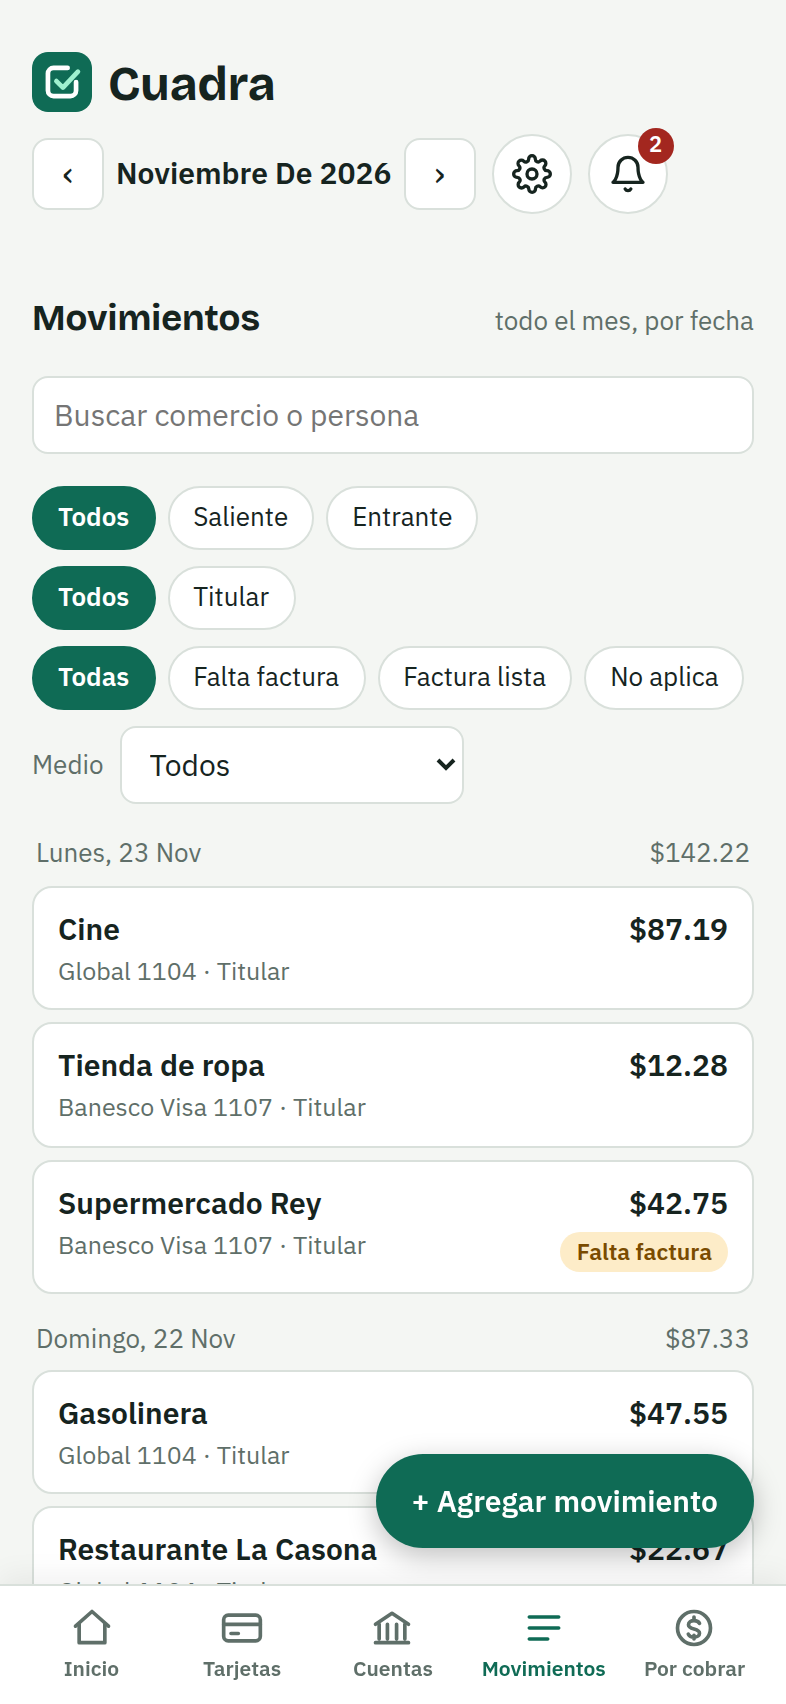
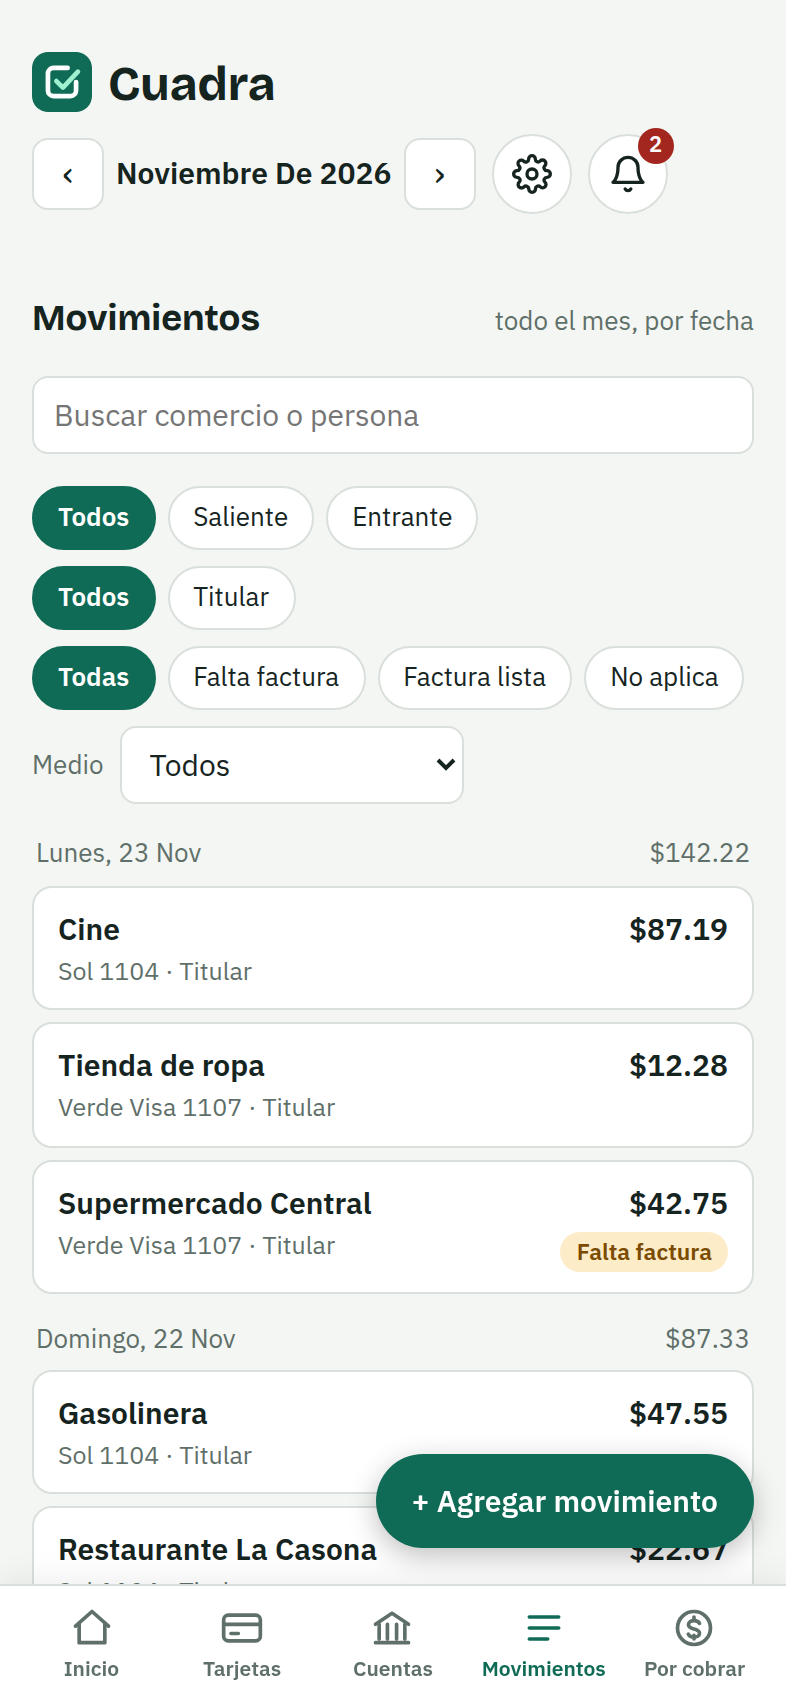
Actualización 2026-11-24

diff --git a/demo/datos_demo.py b/demo/datos_demo.py
@@ -34,23 +34,23 @@ db.set("usuarios", "demo", {"nombre": "Demo", "rol": "admin", "clave": hash_clav
 
 AHORA = "2026-11-23T19:42"
 saldos = {
-    "bg-yappy": {"banco": "Banco General", "desde": AHORA, "medios": ["Yappy", "BG 1111"], "nombre": "Cuenta Yappy", "orden": 1, "saldo": 412.50, "tipo": "cuenta"},
-    "bg-ahorro": {"banco": "Banco General", "contar": True, "desde": AHORA, "medios": ["BG 1113"], "nombre": "Ahorros", "orden": 3, "saldo": 2850.00, "tipo": "cuenta"},
-    "bac-ahorros": {"banco": "BAC", "contar": True, "desde": AHORA, "medios": ["BAC 1110"], "nombre": "Cuenta de ahorros", "orden": 10, "saldo": 1320.40, "tipo": "cuenta"},
-    "global-principal": {"banco": "Global Bank", "desde": AHORA, "medios": ["Global 1114"], "nombre": "Cuenta principal", "orden": 30, "saldo": 5400.00, "tipo": "cuenta"},
-    "bac-mc-1102": {"banco": "BAC", "corteDia": 9, "desde": AHORA, "deuda": 642.18, "disponible": 9357.82, "grupo": "BAC", "limite": 10000,
-                    "medios": ["BAC MC 1102"], "nombre": "Mastercard", "orden": 12, "pagoDia": 25, "tipo": "tarjeta", "pagoMin": 35.0, "saldoCorte": 410.0,
+    "norte-pagos": {"banco": "Banco Norte", "desde": AHORA, "medios": ["Pagos", "BN 1111"], "nombre": "Cuenta de pagos", "orden": 1, "saldo": 412.50, "tipo": "cuenta"},
+    "norte-ahorro": {"banco": "Banco Norte", "contar": True, "desde": AHORA, "medios": ["BN 1113"], "nombre": "Ahorros", "orden": 3, "saldo": 2850.00, "tipo": "cuenta"},
+    "azul-ahorros": {"banco": "Banco Azul", "contar": True, "desde": AHORA, "medios": ["BA 1110"], "nombre": "Cuenta de ahorros", "orden": 10, "saldo": 1320.40, "tipo": "cuenta"},
+    "sol-principal": {"banco": "Banco Sol", "desde": AHORA, "medios": ["BS 1114"], "nombre": "Cuenta principal", "orden": 30, "saldo": 5400.00, "tipo": "cuenta"},
+    "azul-mc-1102": {"banco": "Banco Azul", "corteDia": 9, "desde": AHORA, "deuda": 642.18, "disponible": 9357.82, "grupo": "Banco Azul", "limite": 10000,
+                    "medios": ["Azul MC 1102"], "nombre": "Mastercard", "orden": 12, "pagoDia": 25, "tipo": "tarjeta", "pagoMin": 35.0, "saldoCorte": 410.0,
                     "transito": [{"fecha": "2026-11-22", "desc": "Compra en Proceso", "monto": 35.0}], "financiado": 0, "planes": []},
-    "banesco-1107": {"banco": "Banesco", "corteDia": 16, "desde": AHORA, "deuda": 1180.77, "disponible": 8819.23, "limite": 10000,
-                     "medios": ["Banesco Visa 1107"], "nombre": "Visa", "orden": 20, "pagoDia": 12, "pagoMin": 50.0, "saldoCorte": 960.0, "tipo": "tarjeta", "transito": []},
-    "global-mc-1104": {"banco": "Global Bank", "corteDia": 25, "desde": AHORA, "deuda": 318.60, "disponible": 6681.40, "limite": 7000,
-                       "medios": ["Global 1104"], "nombre": "Mastercard", "orden": 35, "pagoDia": 20, "pagoMin": 25.0, "tipo": "tarjeta"},
+    "verde-1107": {"banco": "Banco Verde", "corteDia": 16, "desde": AHORA, "deuda": 1180.77, "disponible": 8819.23, "limite": 10000,
+                     "medios": ["Verde Visa 1107"], "nombre": "Visa", "orden": 20, "pagoDia": 12, "pagoMin": 50.0, "saldoCorte": 960.0, "tipo": "tarjeta", "transito": []},
+    "sol-mc-1104": {"banco": "Banco Sol", "corteDia": 25, "desde": AHORA, "deuda": 318.60, "disponible": 6681.40, "limite": 7000,
+                       "medios": ["Sol 1104"], "nombre": "Mastercard", "orden": 35, "pagoDia": 20, "pagoMin": 25.0, "tipo": "tarjeta"},
 }
 for k, v in saldos.items():
     db.set("saldos", k, v)
 
-comercios = ["Supermercado Rey", "Farmacia Arrocha", "Gasolinera", "Café Unido", "Cine", "Restaurante La Casona", "Netflix", "Uber", "Tienda de ropa", "Ferretería"]
-medios = ["BAC MC 1102", "Banesco Visa 1107", "Global 1104"]
+comercios = ["Supermercado Central", "Farmacia del Barrio", "Gasolinera", "Café del Parque", "Cine", "Restaurante La Casona", "Streaming", "Taxi", "Tienda de ropa", "Ferretería"]
+medios = ["Azul MC 1102", "Verde Visa 1107", "Sol 1104"]
 
 
 def mov(id, fecha, hora, monto, medio, tipo, comercio, **extra):
@@ -67,8 +67,7 @@ for dia in range(1, 24):
         mov(f"d{n}", f"2026-11-{dia:02d}", f"{random.randint(8, 21):02d}:{random.randint(0, 59):02d}", round(random.uniform(4, 95), 2),
             random.choice(medios), "Compra", random.choice(comercios))
 # una compra con factura pendiente: la que escanea el video (su total coincide con el recibo de camara_falsa.py)
-mov("d99", "2026-11-23", "18:42", 42.75, "Banesco Visa 1107", "Compra", "Supermercado Rey", factura="Pendiente")
-mov("y1", "2026-11-20", "12:10", 25.0, "Yappy", "Yappy recibido", "Yappy de Ana", origen="banco")
+mov("d99", "2026-11-23", "18:42", 42.75, "Verde Visa 1107", "Compra", "Supermercado Central", factura="Pendiente")
 
 deudas = [("ana", "Ana", "x1", "2026-11-18", "Ana debe: mitad de la cena", 28.0), ("ana", "Ana", "x2", "2026-11-21", "Ana debe: entradas del cine", 17.5),
           ("luis", "Luis", "x3", "2026-11-19", "Luis debe: gasolina del viaje", 30.0), ("carla", "Carla", "x4", "2026-11-22", "Carla debe: 1/3 del taxi", 12.0)]
@@ -78,6 +77,6 @@ for pid, nombre in (("ana", "Ana"), ("luis", "Luis"), ("carla", "Carla")):
     det = [{"mov": m, "fecha": f, "comercio": t, "monto": mo} for p, _, m, f, t, mo in deudas if p == pid]
     db.set("cxc", pid, {"nombre": nombre, "alias": "", "nota": "", "partidas": [], "deMovs": sum(d["monto"] for d in det), "detalleMovs": det})
 
-db.set("avisos", "av1", {"fecha": "2026-11-23", "texto": "Compra de $35.00 en tránsito en BAC Mastercard. Confirma que llegue mañana.", "tipo": "revisar", "visto": False})
-db.set("avisos", "av2", {"fecha": "2026-11-23", "texto": "Falta la factura de Supermercado Rey por $42.75.", "tipo": "revisar", "visto": False})
+db.set("avisos", "av1", {"fecha": "2026-11-23", "texto": "Compra de $35.00 en tránsito en Mastercard. Confirma que llegue mañana.", "tipo": "revisar", "visto": False})
+db.set("avisos", "av2", {"fecha": "2026-11-23", "texto": "Falta la factura de Supermercado Central por $42.75.", "tipo": "revisar", "visto": False})
 print(f"listo: {a.carpeta} ({len(db.all('movs'))} movimientos). Usuario demo / {a.clave}")

diff --git a/demo/capturar.py b/demo/capturar.py
@@ -43,7 +43,7 @@ with sync_playwright() as p:
 
     def dgi(route):  # simula la respuesta de la DGI para el QR inventado
         c.request.patch(f"{a.url}/api/d/movs/d99", data={"factura": "Recibida"})
-        route.fulfill(status=200, content_type="application/json", body=json.dumps({"estado": "OK", "emisor": "Supermercado Rey", "total": 42.75}))
+        route.fulfill(status=200, content_type="application/json", body=json.dumps({"estado": "OK", "emisor": "Supermercado Central", "total": 42.75}))
     pg.route("**/api/dgi/qr", dgi)
 
     def foto(n):
@@ -59,7 +59,7 @@ with sync_playwright() as p:
     pestana("Movimientos"); foto("04-movimientos")
     pestana("Por cobrar"); foto("05-por-cobrar")
     pestana("Movimientos"); pg.wait_for_timeout(500)
-    pg.locator("button:visible:has-text('Supermercado Rey'):has-text('42.75')").first.click(); foto("06-editar-movimiento")
+    pg.locator("button:visible:has-text('Supermercado Central'):has-text('42.75')").first.click(); foto("06-editar-movimiento")
     pg.click("#eQR"); pg.wait_for_timeout(900); pg.screenshot(path=f"{a.salida}/07-escanear-qr.png")
     pg.wait_for_function("document.body.innerText.includes('guardada en')", timeout=15000)
     pg.wait_for_timeout(400); pg.screenshot(path=f"{a.salida}/08-factura-guardada.png")

diff --git a/demo/grabar_video.py b/demo/grabar_video.py
@@ -48,7 +48,7 @@ with sync_playwright() as p:
 
     def dgi(route):
         c.request.patch(f"{a.url}/api/d/movs/d99", data={"factura": "Recibida"})
-        route.fulfill(status=200, content_type="application/json", body=json.dumps({"estado": "OK", "emisor": "Supermercado Rey", "total": 42.75}))
+        route.fulfill(status=200, content_type="application/json", body=json.dumps({"estado": "OK", "emisor": "Supermercado Central", "total": 42.75}))
     pg.route("**/api/dgi/qr", dgi)
     pg.evaluate(JS)
 
@@ -76,7 +76,7 @@ with sync_playwright() as p:
     espera(1200)
     # A. escanear la factura de una compra
     toca(pg.locator("nav >> text=Movimientos").first); espera(1300)
-    toca(pg.locator("button:visible:has-text('Supermercado Rey'):has-text('42.75')").first); espera(1500)
+    toca(pg.locator("button:visible:has-text('Supermercado Central'):has-text('42.75')").first); espera(1500)
     toca(pg.locator("#eQR"))
     pg.wait_for_selector("#qrOv.ok", timeout=15000); espera(900)
     pg.wait_for_function("document.body.innerText.includes('guardada en')", timeout=15000); espera(2600)

diff --git a/demo/camara_falsa.py b/demo/camara_falsa.py
@@ -24,7 +24,7 @@ def font(s):
     return ImageFont.load_default()
 # recibo (papel) 520x900
 R=Image.new("RGB",(520,900),(252,252,250)); d=ImageDraw.Draw(R)
-d.text((260,50),"SUPERMERCADO REY",fill=(30,30,30),font=font(26),anchor="mm")
+d.text((260,50),"SUPERMERCADO CENTRAL",fill=(30,30,30),font=font(26),anchor="mm")
 d.text((260,86),"RUC 0000000-0-000000",fill=(90,90,90),font=font(18),anchor="mm")
 y=130
 for n,m in [("Pan de molde","2.10"),("Leche entera 1L","1.85"),("Café molido","6.40"),("Frutas","8.75"),("Arroz 5 lb","4.20"),("Pollo","12.90"),("Jabón","3.15"),("Agua 6 pack","3.40")]:

diff --git a/README.md b/README.md
@@ -4,7 +4,7 @@
 
 <h1 align="center">Cuadra</h1>
 
-**Todos tus bancos en una sola app.** Cuadra junta BAC, Banesco, Global Bank y Banco General (y tu Yappy) en una sola pantalla: saldos, tarjetas, movimientos y facturas, cuadrados solos contra lo que dice cada banco. En Panamá no existe una API para ver tus bancos juntos, así que Cuadra entra por ti a cada banca en línea, solo para leer, y te lo muestra todo unificado, junto con lo que otras personas te deben, sin que tengas que anotar nada a mano.
+**Todos tus bancos en una sola app.** Cuadra junta tus bancos de Panamá en una sola pantalla: saldos, tarjetas, movimientos y facturas, cuadrados solos contra lo que dice cada banco. En Panamá no existe una API para ver tus bancos juntos, así que Cuadra entra por ti a cada banca en línea, solo para leer, y te lo muestra todo unificado, junto con lo que otras personas te deben, sin que tengas que anotar nada a mano.
 
 Corre en un servidor propio y pequeño (una Raspberry Pi o un VPS de 1 GB), sin servicios de terceros para tus datos y sin IA en el proceso.
 
@@ -92,7 +92,7 @@ Cuadra es una sola página que se instala como app en el teléfono. Abajo hay ci
 
 ### Por cobrar
 - Cada persona con lo que te debe y el total arriba. Aquí se ve el resultado de la división de arriba.
-- Lo que debe cada una sale de los movimientos marcados a su nombre. Cuando paga (un Yappy recibido) o hace un abono, la deuda baja sola.
+- Lo que debe cada una sale de los movimientos marcados a su nombre. Cuando paga o hace un abono, la deuda baja sola.
 - **Agregar persona** crea a alguien nuevo.
 </td></tr>
 <tr>
@@ -135,12 +135,12 @@ La idea es simple: tener todas tus facturas a mano y un control de lo que gastas
 
 | | |
 |---|---|
-| **Todos tus bancos en un solo lugar** | BAC, Banesco, Global Bank y Banco General en una sola pantalla. Un solo Neto (liquidez + por cobrar − tarjetas) en vez de cuatro portales distintos. |
-| **Movimientos al instante** | Cada aviso de compra que llega al correo (BAC, Banesco, Global Bank, Banco General, Yappy) se registra en menos de 5 minutos. |
+| **Todos tus bancos en un solo lugar** | Las cuentas y tarjetas de todos tus bancos en una sola pantalla. Un solo Neto (liquidez + por cobrar − tarjetas) en vez de un portal por banco. |
+| **Movimientos al instante** | Cada aviso de compra que llega al correo de tus bancos y de tus pagos móviles se registra en menos de 5 minutos. |
 | **Conciliación diaria con el banco** | Un lector entra a la banca en línea una vez al día, confirma saldos y movimientos y detecta compras **en tránsito**. Lo que no cuadra se marca para revisión. |
 | **Tarjetas de crédito** | Saldo, disponible, fechas de corte y de pago, pago mínimo y pago de contado, con aviso de los pagos próximos. |
-| **Tarjetas adicionales** | Las compras de cada adicional se asignan a su titular y se suman a lo que debe; sus pagos por Yappy se descuentan solos. Cada persona tiene su propio acceso y solo ve lo suyo. |
-| **Cuentas por cobrar** | Cada compra que usó otra persona queda a su nombre. Sus pagos (por ejemplo un Yappy) y los abonos bajan la deuda. Una cuenta se puede dividir entre varias personas. |
+| **Tarjetas adicionales** | Las compras de cada adicional se asignan a su titular y se suman a lo que debe; sus pagos se descuentan solos. Cada persona tiene su propio acceso y solo ve lo suyo. |
+| **Cuentas por cobrar** | Cada compra que usó otra persona queda a su nombre. Sus pagos (por ejemplo una transferencia) y los abonos bajan la deuda. Una cuenta se puede dividir entre varias personas. |
 | **Facturas** | Por PDF, foto o código QR de la DGI de Panamá; se emparejan con su movimiento (mismo monto, ±3 días) y se archivan en Google Drive, listas para la declaración de renta. Ver [Las facturas](#las-facturas-por-qué-importan-y-cómo-se-pegan). |
 | **Respaldos** | Copia diaria completa en Google Drive y del código en Git. Una máquina nueva se monta con un solo comando. |
 
@@ -149,8 +149,8 @@ La idea es simple: tener todas tus facturas a mano y un control de lo que gastas
 ```mermaid
 flowchart LR
     subgraph Fuentes
-        A[Avisos por correo<br/>bancos, Yappy, facturas]
-        B[Banca en línea<br/>Global, BAC, BG, Banesco]
+        A[Avisos por correo<br/>bancos, pagos, facturas]
+        B[Banca en línea<br/>de cada banco]
     end
     subgraph Servidor
         W[Worker<br/>cada 5 min]
@@ -190,7 +190,7 @@ lector-bancos/
 app-cuadra/
   gastos/worker.py       Revisión periódica del correo y de la carpeta de entrada
   gastos/reglas.py       Reglas: adicionales, cobros, flotantes, conciliación
-  gastos/parsers.py      Avisos de cada banco y Yappy
+  gastos/parsers.py      Avisos de cada banco y de tus pagos
   gastos/facturas*.py    Facturas por PDF, foto y QR de la DGI
   gastos/web.py          API y autenticación (FastAPI)
   gastos/static/calculo.js  Cálculo de saldos, liquidez y fechas: UNA copia, usada por la página y por el servidor (vía node)
